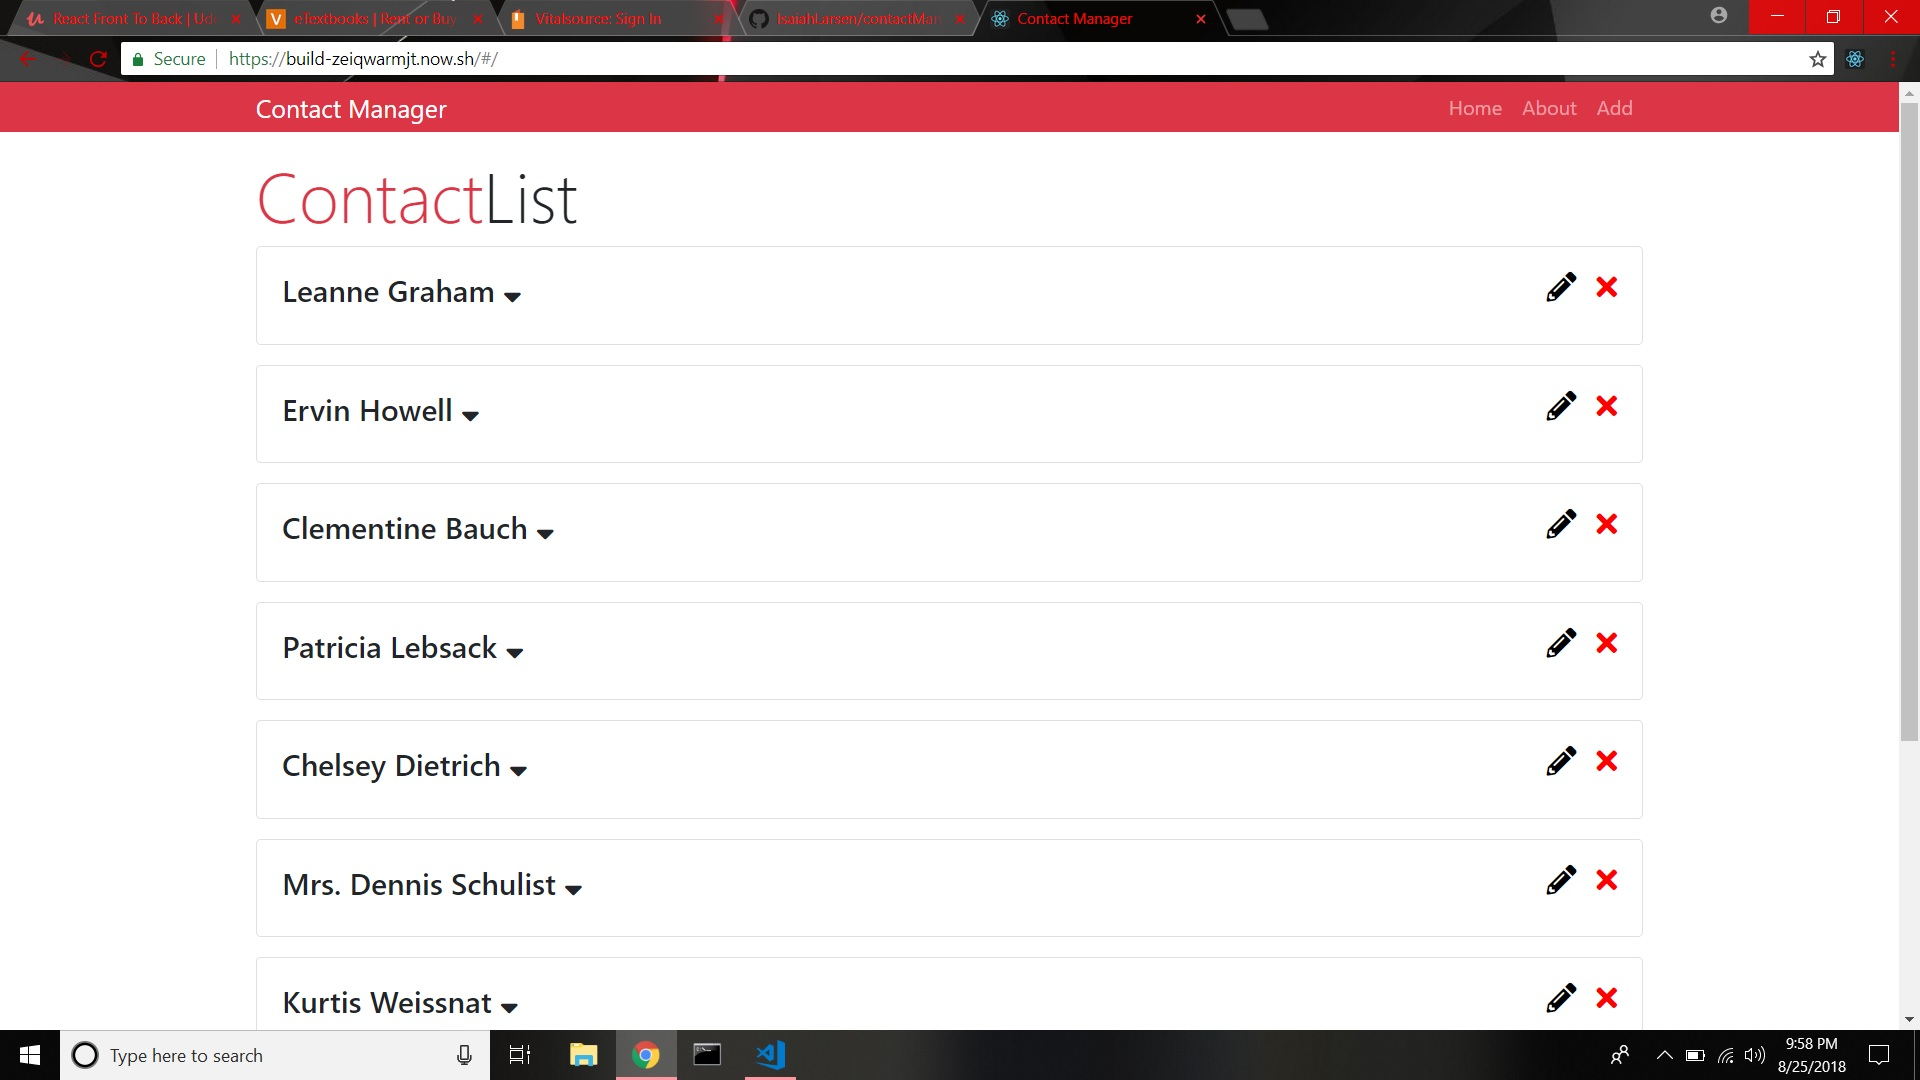
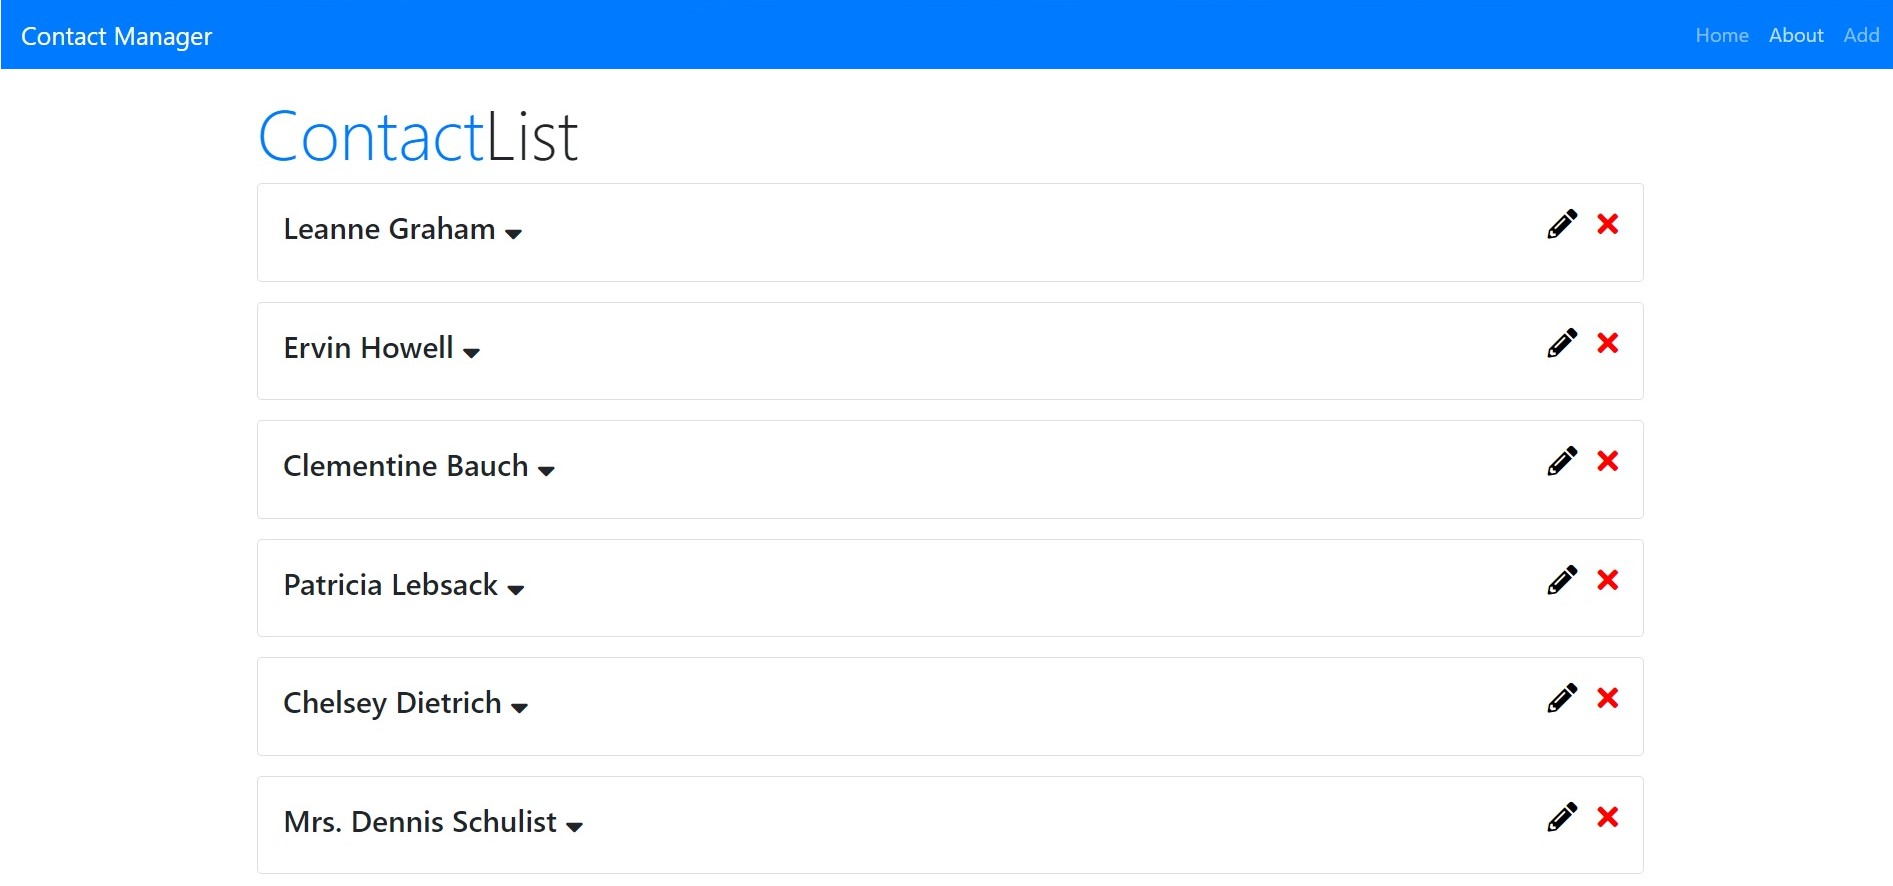
updated work

diff --git a/css/main.css b/css/main.css
@@ -19,6 +19,12 @@
       opacity: 0; }
     .menu-btn.close .btn-line:nth-child(3) {
       transform: rotate(-45deg) translate(7px, -6px); }
+  .menu-btn:hover .btn-line:nth-child(1) {
+    background: #13a8ff; }
+  .menu-btn:hover .btn-line:nth-child(2) {
+    background: #13a8ff; }
+  .menu-btn:hover .btn-line:nth-child(3) {
+    background: #13a8ff; }
 
 .menu {
   position: fixed;
@@ -58,14 +64,14 @@
       background: url(/img/bioSmall.jpg);
       background-size: cover;
       border-radius: 30%;
-      border: solid 3px #127892; }
+      border: solid 3px #13a8ff; }
   .menu .nav-item {
     transform: translate3d(600px, 0, 0);
     transition: all 0.5s ease-out; }
     .menu .nav-item.show {
       transform: translate3d(0, 0, 0); }
     .menu .nav-item.current > a {
-      color: #127892; }
+      color: #13a8ff; }
   .menu .nav-link {
     display: inline-block;
     position: relative;
@@ -77,7 +83,7 @@
     text-decoration: none;
     transition: all 0.5s ease-out; }
     .menu .nav-link:hover {
-      color: #127892; }
+      color: #13a8ff; }
 
 .nav-item:nth-child(1) {
   transition-delay: 0.1s; }
@@ -127,7 +133,7 @@ body {
       top: 0;
       right: 0;
       width: 100%;
-      height: 100%;
+      height: 105%;
       z-index: -1;
       background: rgba(0, 0, 0, 0.8); }
   body#bg-contact {
@@ -162,7 +168,7 @@ h3 {
     padding: 0.2rem 1rem; }
 
 h3 {
-  color: #127892;
+  color: #13a8ff;
   font-size: 1.6rem; }
 
 h5 {
@@ -179,7 +185,7 @@ header {
   width: 100%; }
 
 .text-secondary {
-  color: #127892; }
+  color: #13a8ff; }
 
 main {
   padding: 3.5rem;
@@ -189,7 +195,7 @@ main {
     main .icons a {
       padding: 0.4rem; }
       main .icons a:hover {
-        color: #127892;
+        color: #13a8ff;
         transition: all 0.5s ease-out; }
   main#home {
     overflow: hidden; }
@@ -218,7 +224,7 @@ main {
   grid-area: bioimage;
   width: 100%;
   margin: auto;
-  border: #127892 3px solid; }
+  border: #13a8ff 3px solid; }
 
 .bio {
   grid-area: bio;
@@ -233,7 +239,7 @@ main {
 .job {
   background: #0d0d0d;
   padding: 0.5rem;
-  border-bottom: #127892 5px solid; }
+  border-bottom: #13a8ff 5px solid; }
 
 .projects {
   display: grid; }
@@ -243,7 +249,7 @@ main {
     border: 3px #fff solid; }
     .projects img:hover {
       opacity: 0.5;
-      border-color: #127892;
+      border-color: #13a8ff;
       transition: all 0.5s ease-out; }
 
 .project-item {
@@ -266,10 +272,10 @@ main {
     transition: all 0.5s ease-out; }
     .boxes div:hover {
       padding: 1.5rem 2.5rem;
-      background: #127892;
-      color: #ffffff; }
+      background: #13a8ff;
+      color: #000000; }
       .boxes div:hover span {
-        color: #ffffff; }
+        color: #000000; }
 
 .btn, .btn-dark, .btn-light {
   display: block;
@@ -280,14 +286,14 @@ main {
   .btn:hover, .btn-dark:hover, .btn-light:hover {
     transition: all 0.5s ease-out;
     background: gray;
-    color: #ffffff; }
+    color: #000000; }
 
 .btn-dark {
   background: black;
   color: #fff; }
 
 .btn-light {
-  background: #127892;
+  background: #13a8ff;
   color: #000; }
 
 #main-footer {

diff --git a/work.html b/work.html
@@ -49,26 +49,26 @@
             <div class="project-item">
                 <div>
                     <h3>Contact Manager</h3>
-                    <a href="https://build-zeiqwarmjt.now.sh/#">
-                        <img src="img/contactManager.jpg" alt=" project ">
+                    <a href="https://build-ueurplndtx.now.sh/#/" target="_blank">
+                        <img src="img/contact_manager.jpg" alt=" project ">
                     </a>
                 </div>
 
                 <p class="projectDesc">
-                    This is a simple contact manager that was built using React.js. It is a full CRUD applition that makes all it's request to
-                    a json placeholder(not persisted to their database). It pulls in 10 contacts to start, from there you
-                    can edit, delete or add a new contact </p>
-                <a href="https://build-zeiqwarmjt.now.sh/#" class="btn-light  ">
+                    This is a simple contact manager that was built using React.js. It is a full CRUD application that makes all it's request
+                    to a json placeholder(not persisted to their database). It pulls in 10 contacts to start, from there
+                    you can edit, delete or add a new contact </p>
+                <a href="https://build-ueurplndtx.now.sh/#/" target="_blank" class="btn-light  ">
                     <i class="fas fa-eye "></i> Project
                 </a>
-                <a href="https://github.com/IsaiahLarsen/contactManager " class="btn-dark  ">
+                <a href="https://github.com/IsaiahLarsen/contactManager " target="_blank" class="btn-dark  ">
                     <i class="fab fa-github "></i> Github
                 </a>
             </div>
         </div>
     </main>
 
-    <footer id="main-footer " style="text-align: center">
+    <footer id="main-footer" style="text-align:center;">
         Copyright &copy: 2018
     </footer>
     <script type="text/javascript " src="javascript/main.js "></script>

diff --git a/about.html b/about.html
@@ -48,13 +48,14 @@
             <img src="img/bioSmall.jpg" alt="bio pic" class="bio-image">
             <div class="bio">
                 <h3 class="text-secondary">BIO</h3>
-                <p>My name is Isaiah, and I am a student at UVU pursuing a Bachelors in Computer Science. Also, I'm a Web developer
-                    and designer. I make responsive, clean, and modern sites, including the one your visiting now. Web design
-                    has become one of my hobbies, which has encouraged me to learn and keep learning outside of my university
-                    work. Please feel free to check out my
+                <p>My name is Isaiah, and I am a student at UVU pursuing a Bachelors in Computer Science. Also, I'm a Web
+                    developer and designer. I make responsive, clean, and modern sites, including the one your visiting now.
+                    Web design has become one of my hobbies, which has encouraged me to learn and keep learning outside of
+                    my university work. Please feel free to check out my
                     <a title="View my projects" href="work.html" class="text-secondary about-link">work/projects</a>
                     and visit my
-                    <a title="View contact page" href="contact.html" class="text-secondary about-link"> contact</a> if you have any further questions or comments, Thanks.
+                    <a title="View contact page" href="contact.html" class="text-secondary about-link"> contact</a> if you
+                    have any questions or comments, Thanks.
                 </p>
             </div>
         </div>

diff --git a/scss/_config.scss b/scss/_config.scss
@@ -1,5 +1,5 @@
 $primary-color: rgb(0, 0, 0);
-$secondary-color: rgb(18, 120, 146);
+$secondary-color: rgb(19, 168, 255);
 $show-home-image: true;
 $home-image: url(../img/background.jpg);
 $background-opacity: 0.8;
@@ -38,11 +38,12 @@ $background-opacity: 0.8;
         top: 0;
         right: 0;
         width: 100%;
-        height: 100%;
+        height: 105%;
         z-index: -1;
         background: rgba($primary-color, $background-opacity);
       }
     }
+
     &#bg-contact {
       background: url(/img/contact.jpeg);
       background-attachment: fixed;

diff --git a/scss/_menu.scss b/scss/_menu.scss
@@ -33,6 +33,21 @@
       }
     }
   }
+  &:hover {
+    .btn-line {
+      &:nth-child(1) {
+        background: $secondary-color;
+      }
+
+      &:nth-child(2) {
+        background: $secondary-color;
+      }
+
+      &:nth-child(3) {
+        background: $secondary-color;
+      }
+    }
+  }
 }
 
 //menu overlay

diff --git a/scss/main.scss b/scss/main.scss
@@ -206,6 +206,7 @@ main {
 
 #main-footer {
   text-align: center;
+
   padding: 1rem;
   color: set-text-color($primary-color);
   height: 60px;
